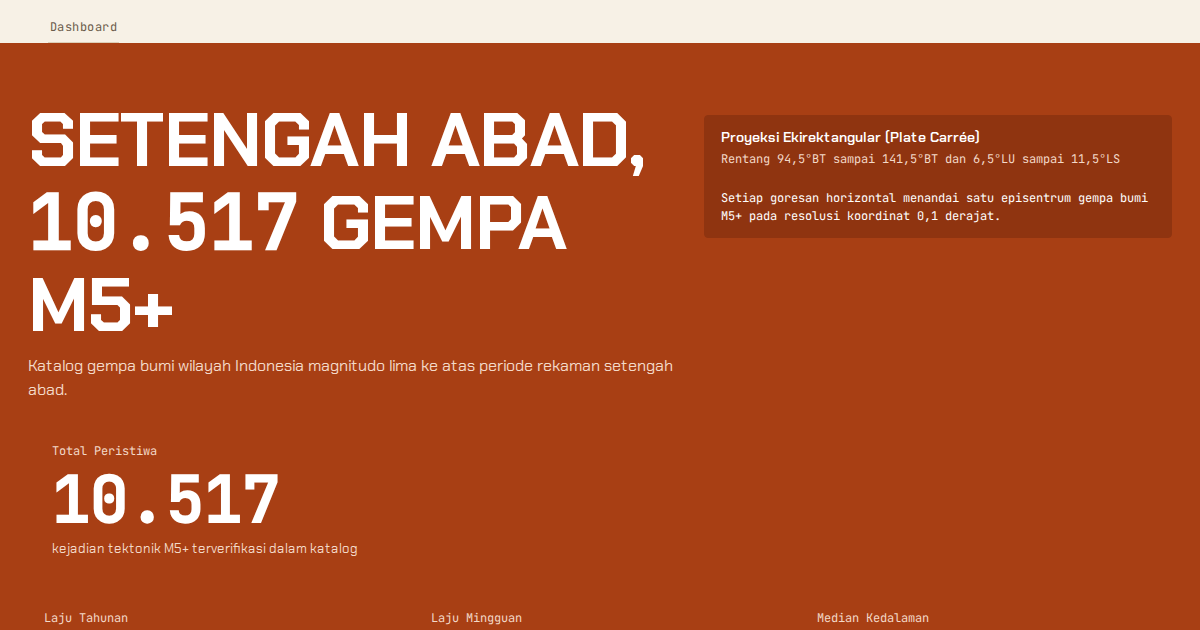
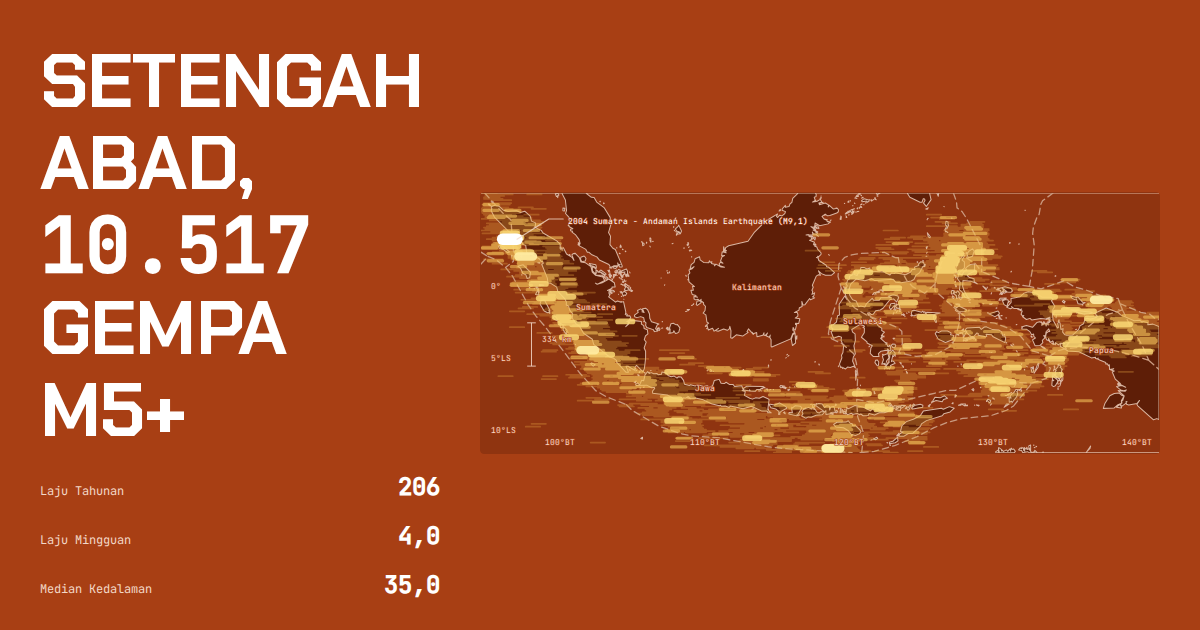
Draw the epicentre map into the gempa og card and gate the map region

diff --git a/pipeline/build_og.py b/pipeline/build_og.py
@@ -22,8 +22,9 @@ import zlib
 try:
     from playwright.sync_api import sync_playwright, TimeoutError as PlaywrightTimeoutError
 except Exception as _import_exc:
-    print(f"INFRA-FAIL: playwright could not be imported: {_import_exc}", file=sys.stderr)
-    sys.exit(2)
+    sync_playwright = None
+    PlaywrightTimeoutError = Exception
+    _import_error = str(_import_exc)
 
 ROOT = os.path.dirname(os.path.dirname(os.path.abspath(__file__)))
 
@@ -32,6 +33,22 @@ TARGETS = [
     ("gempa", "gempa/index.html"),
     ("pisa", "pisa/index.html"),
 ]
+
+SPECS = {
+    "hub": "hub|viewport|1200x630",
+    "gempa": "gempa|card|left400|map-right",
+    "pisa": "pisa|viewport|1200x630",
+}
+
+
+def spec_line(slug: str) -> str:
+    """Return a stable single-line description of that slug's capture spec."""
+    return SPECS.get(slug, f"{slug}|viewport|1200x630")
+
+
+def compute_src_sha(html_bytes: bytes, slug: str) -> str:
+    """Compute sha256(html_bytes + b'\\0' + spec_line)."""
+    return hashlib.sha256(html_bytes + b"\0" + spec_line(slug).encode("utf-8")).hexdigest()
 
 
 def decode_png(png_bytes: bytes):
@@ -133,7 +150,7 @@ def decode_png(png_bytes: bytes):
     return width, height, color_type, bpp, rows
 
 
-def verify_og_bands(png_path: str, sidecar_path: str, expected_sha: str):
+def verify_og_bands(png_path: str, sidecar_path: str, expected_sha: str, slug: str = None):
     """Validate image and sidecar against C8 gate bands."""
     if not os.path.exists(sidecar_path):
         print(f"BAND-FAIL: sidecar {sidecar_path} missing", file=sys.stderr)
@@ -168,6 +185,10 @@ def verify_og_bands(png_path: str, sidecar_path: str, expected_sha: str):
     # Step-4 sample: sample every 4th pixel along both axes
     colors = set()
     lums = []
+    gempa_ink_samples = 0
+    hero_bg = (168, 63, 20)
+    slot_bg = (143, 52, 16)
+
     for y in range(0, height, 4):
         row = rows[y]
         for x in range(0, width, 4):
@@ -179,6 +200,9 @@ def verify_og_bands(png_path: str, sidecar_path: str, expected_sha: str):
             colors.add((r, g, b))
             lum = 0.2126 * r + 0.7152 * g + 0.0722 * b
             lums.append(lum)
+            if slug == "gempa" and x >= 480:
+                if (r, g, b) != hero_bg and (r, g, b) != slot_bg:
+                    gempa_ink_samples += 1
 
     if len(colors) < 64:
         print(f"BAND-FAIL: distinct RGB colours on step-4 sample: {len(colors)} < 64", file=sys.stderr)
@@ -189,8 +213,106 @@ def verify_og_bands(png_path: str, sidecar_path: str, expected_sha: str):
         print(f"BAND-FAIL: luminance range: {lum_range:.1f} < 60.0", file=sys.stderr)
         sys.exit(1)
 
+    if slug == "gempa" and gempa_ink_samples < 400:
+        print(f"BAND-FAIL: gempa right-hand ink samples on step-4: {gempa_ink_samples} < 400", file=sys.stderr)
+        sys.exit(1)
 
-def render_page(browser, html_path: str, png_path: str):
+
+GEMPA_CARD_CSS = """
+.nav-home, #loader, #err-box,
+#band-province, #band-depth, #band-mag, #band-decade, #band-live, #band-footer {
+  display: none !important;
+}
+
+html, body {
+  margin: 0 !important;
+  padding: 0 !important;
+  overflow: hidden !important;
+  width: 1200px !important;
+  height: 630px !important;
+}
+
+.dashboard-root {
+  margin: 0 !important;
+  padding: 0 !important;
+  max-width: 1200px !important;
+  width: 1200px !important;
+  height: 630px !important;
+}
+
+#band-hero {
+  box-sizing: border-box !important;
+  width: 1200px !important;
+  height: 630px !important;
+  padding: 40px !important;
+  display: grid !important;
+  grid-template-columns: 400px 1fr !important;
+  grid-template-rows: auto 1fr !important;
+  column-gap: 40px !important;
+}
+
+.band-subtitle,
+#scale-hero,
+.stat-cell-dominant,
+.field-note,
+#scale-field-key,
+#field-detail,
+.stat-meta {
+  display: none !important;
+}
+
+.hero-header-grid {
+  grid-column: 1 !important;
+  grid-row: 1 !important;
+  display: block !important;
+  margin: 0 !important;
+  padding: 0 !important;
+}
+
+h1.band-headline {
+  margin: 0 0 16px 0 !important;
+  padding: 0 !important;
+}
+
+.hero-stats {
+  grid-column: 1 !important;
+  grid-row: 2 !important;
+  margin: 0 !important;
+  padding: 0 !important;
+  display: block !important;
+}
+
+.hero-stats-sub {
+  display: flex !important;
+  flex-direction: column !important;
+  gap: 8px !important;
+  margin: 0 !important;
+  padding: 0 !important;
+}
+
+.stat-cell-sub {
+  display: flex !important;
+  flex-direction: row !important;
+  justify-content: space-between !important;
+  align-items: baseline !important;
+  padding: 6px 0 !important;
+}
+
+.stat-cell-sub .stat-value {
+  margin: 0 !important;
+}
+
+#chart-field {
+  grid-column: 2 !important;
+  grid-row: 1 / -1 !important;
+  margin: 0 !important;
+  align-self: center !important;
+  width: 100% !important;
+}
+"""
+
+
+def render_page(browser, slug: str, html_path: str, png_path: str):
     """Render page with Playwright following C7 renderer contract."""
     page = browser.new_page(viewport={"width": 1200, "height": 630}, device_scale_factor=1)
     file_url = f"file://{os.path.abspath(html_path)}"
@@ -221,6 +343,21 @@ def render_page(browser, html_path: str, png_path: str):
         sys.exit(2)
 
     page.wait_for_timeout(300)
+
+    if slug == "gempa":
+        page.add_style_tag(content=GEMPA_CARD_CSS)
+        field_box = page.locator("#chart-field").bounding_box()
+        if not field_box:
+            print(f"RENDER-FAIL: #chart-field not found on {html_path}", file=sys.stderr)
+            sys.exit(1)
+        fx, fy, fw, fh = field_box["x"], field_box["y"], field_box["width"], field_box["height"]
+        if not (fx >= 0 and fy >= 0 and (fx + fw) <= 1200 and (fy + fh) <= 630 and fw > 0 and fh > 0):
+            print(
+                f"RENDER-FAIL: #chart-field bounding box ({fx}, {fy}, {fw}, {fh}) not inside 0..1200 x 0..630 frame",
+                file=sys.stderr,
+            )
+            sys.exit(1)
+
     page.evaluate("window.scrollTo(0, 0)")
     page.wait_for_timeout(100)
 
@@ -256,7 +393,7 @@ def main():
 
         with open(html_path, "rb") as f:
             html_bytes = f.read()
-        src_sha = hashlib.sha256(html_bytes).hexdigest()
+        src_sha = compute_src_sha(html_bytes, slug)
 
         png_path = os.path.join(og_dir, f"{slug}.png")
         sidecar_path = os.path.join(og_dir, f"{slug}.srcsha")
@@ -280,6 +417,9 @@ def main():
             needs_generation.append(plan[-1])
 
     if needs_generation:
+        if sync_playwright is None:
+            print(f"INFRA-FAIL: playwright could not be imported: {_import_error}", file=sys.stderr)
+            sys.exit(2)
         try:
             with sync_playwright() as p:
                 try:
@@ -290,7 +430,7 @@ def main():
 
                 try:
                     for item in needs_generation:
-                        render_page(browser, item["html_path"], item["png_path"])
+                        render_page(browser, item["slug"], item["html_path"], item["png_path"])
                         with open(item["sidecar_path"], "w", encoding="utf-8") as sf:
                             sf.write(f"{item['src_sha']}\n")
                 finally:
@@ -305,7 +445,7 @@ def main():
 
     # Verify gate bands and report
     for item in plan:
-        verify_og_bands(item["png_path"], item["sidecar_path"], item["src_sha"])
+        verify_og_bands(item["png_path"], item["sidecar_path"], item["src_sha"], item["slug"])
         status = "skipped" if item["skip"] else "written"
         png_bytes = os.path.getsize(item["png_path"])
         print(f"{item['slug']} png={png_bytes} sha={item['src_sha'][:8]} {status}")

diff --git a/pipeline_hub/verify.py b/pipeline_hub/verify.py
@@ -9,6 +9,7 @@ import base64
 import csv
 import glob
 import hashlib
+import importlib.util
 import json
 import os
 import re
@@ -824,6 +825,23 @@ def decode_png(png_bytes: bytes):
     return width, height, color_type, bpp, rows
 
 
+def load_build_og_spec_line():
+    candidate_paths = [
+        os.path.join(ROOT, "pipeline", "build_og.py"),
+        os.path.join(os.path.dirname(os.path.dirname(os.path.abspath(__file__))), "pipeline", "build_og.py"),
+        "/root/projects/dashboard/pipeline/build_og.py",
+    ]
+    for p in candidate_paths:
+        if os.path.exists(p):
+            spec = importlib.util.spec_from_file_location("build_og", p)
+            if spec and spec.loader:
+                mod = importlib.util.module_from_spec(spec)
+                spec.loader.exec_module(mod)
+                if hasattr(mod, "spec_line"):
+                    return mod.spec_line
+    raise RuntimeError("Could not find pipeline/build_og.py to import spec_line")
+
+
 def check_11_og_images():
     targets = [
         ("hub", os.path.join(ROOT, "index.html")),
@@ -831,6 +849,7 @@ def check_11_og_images():
         ("pisa", os.path.join(ROOT, "pisa", "index.html")),
     ]
     og_dir = os.path.join(ROOT, "assets", "og")
+    get_spec_line = load_build_og_spec_line()
 
     for slug, html_path in targets:
         sidecar_path = os.path.join(og_dir, f"{slug}.srcsha")
@@ -840,7 +859,7 @@ def check_11_og_images():
             return False, f"source page for {slug} not found at {html_path}"
         with open(html_path, "rb") as f:
             html_bytes = f.read()
-        expected_sha = hashlib.sha256(html_bytes).hexdigest()
+        expected_sha = hashlib.sha256(html_bytes + b"\0" + get_spec_line(slug).encode("utf-8")).hexdigest()
 
         if not os.path.exists(sidecar_path):
             return False, f"OG sidecar for {slug} not found at {sidecar_path}"
@@ -868,6 +887,10 @@ def check_11_og_images():
 
         colors = set()
         lums = []
+        gempa_ink_samples = 0
+        hero_bg = (168, 63, 20)
+        slot_bg = (143, 52, 16)
+
         for y in range(0, height, 4):
             row = rows[y]
             for x in range(0, width, 4):
@@ -879,6 +902,9 @@ def check_11_og_images():
                 colors.add((r, g, b))
                 lum = 0.2126 * r + 0.7152 * g + 0.0722 * b
                 lums.append(lum)
+                if slug == "gempa" and x >= 480:
+                    if (r, g, b) != hero_bg and (r, g, b) != slot_bg:
+                        gempa_ink_samples += 1
 
         if len(colors) < 64:
             return False, f"OG image {slug} distinct RGB colours on step-4 sample: {len(colors)} < 64"
@@ -886,6 +912,9 @@ def check_11_og_images():
         lum_range = max(lums) - min(lums)
         if lum_range < 60.0:
             return False, f"OG image {slug} luminance range: {lum_range:.1f} < 60.0"
+
+        if slug == "gempa" and gempa_ink_samples < 400:
+            return False, f"OG image gempa ink samples on right-hand 60% (x >= 480): {gempa_ink_samples} < 400"
 
     return True, "all 3 OG images (hub, gempa, pisa) satisfy C8 gate bands and sidecar sha256"
 
